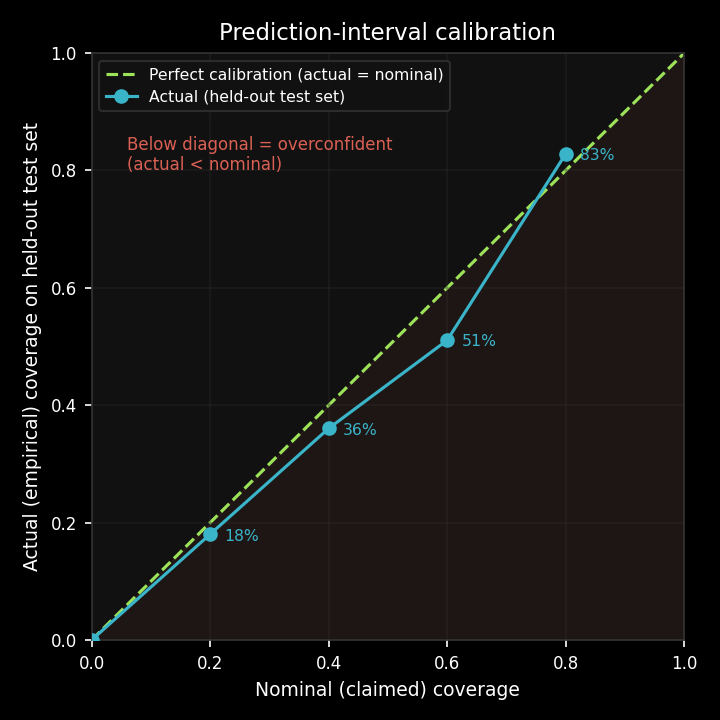
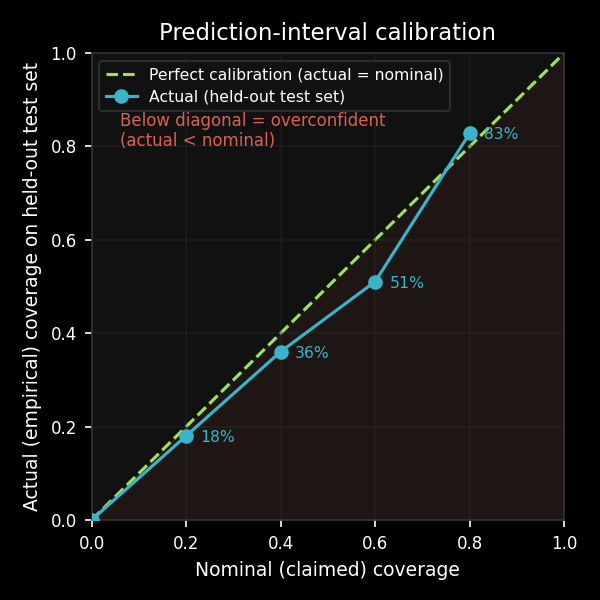
Shrink calibration chart to 600x600; trim and de-brand README
- Calibration chart down to 4.0x4.0in @150dpi (600x600px, exact size
  requested); dropped the in-plot floor-effect annotation that
  overlapped the trend line -- same explanation already lives in
  README's Model Calibration prose.
- Shortened 'How to Read the Daily Chart': combined the gradient/table
  bullets, cut the inline confidence-vs-prediction-interval explainer
  to a glossary link, added 3 outbound links instead of restating
  everything inline.
- Reworked 'What This Repo Does' with more real technical depth (tiling
  rationale, multi-frame averaging rationale, real dawn/dusk) now that
  the plain-language intro covers the beginner version.
- Scrubbed remaining prose mentions of the camera/data provider's brand
  name from README (only the new intro was covered last time); left
  literal env var names and the surfline_predictors.csv filename as-is
  since those are real required identifiers, not prose.
- Added GBT/GLM/MAE/prediction-interval/quantile-regression entries to
  HOW_IT_WORKS.md's existing repo-wide glossary, and linked new README
  terms/acronyms out to it and to its existing YOLOv8/CVAT reference
  links instead of duplicating a second glossary in README.

Claude-Session: https://claude.ai/code/session_01C2GCpQELsJRUSZjSZDcA3i

diff --git a/analysis/surf_count_model_calibration/plot_calibration.py b/analysis/surf_count_model_calibration/plot_calibration.py
@@ -100,7 +100,7 @@ def main():
         "xtick.color": TEXT, "ytick.color": TEXT,
         "grid.color": GRID,
     })
-    fig, ax = plt.subplots(figsize=(4.8, 4.8))
+    fig, ax = plt.subplots(figsize=(4.0, 4.0))
 
     ax.plot([0, 1], [0, 1], color=LIME, linestyle="--", linewidth=1.5,
              label="Perfect calibration (actual = nominal)", zorder=1)

diff --git a/README.md b/README.md
@@ -40,7 +40,7 @@ wants them, but that's the whole project in a nutshell.
 
 ## Technical Overview
 
-This project downloads short clips around daylight hours, extracts 3 cropped frames per clip (~1.5-3s apart), runs YOLOv8 inference on tiled images, and stores per-clip surfer counts averaged across those frames.
+This project downloads short video clips around daylight hours, extracts 3 cropped frames per clip (roughly 1.5-3 seconds apart), runs a [YOLOv8](docs/HOW_IT_WORKS.md#main-resources) object detector on tiled sections of each frame, and stores per-clip surfer counts averaged across those frames.
 
 <!-- DAILY_CHART_START -->
 ## A Recent Surfer Detection Count: Thursday, September 03, 2026, 7:56 AM
@@ -55,65 +55,61 @@ This project downloads short clips around daylight hours, extracts 3 cropped fra
 
 ### How to Read the Daily Chart
 
-- **Aqua line (Median)** — the model's single best-guess count for each
-  hour: the point where it thinks there's roughly a 50/50 chance the real
-  count lands above vs. below.
-- **Shaded gradient around the line** — a *prediction interval*, not
-  technically a confidence interval, though people often use the two
-  terms interchangeably. A confidence interval describes uncertainty
-  around an estimated *average* (e.g. "the average count at 2pm is
-  probably between X and Y"); a prediction interval describes uncertainty
-  around one *individual future observation* — what you'll actually see
-  on one specific day — which is the right concept here, since a chart
-  showing today's forecast is about a single real outcome, not a
-  long-run average. The gradient spans the model's 10th-to-90th
-  percentile prediction, i.e. a nominal 80% interval: if the model were
-  perfectly calibrated, the real count would land inside the shaded band
-  on about 80% of days. **It isn't perfectly calibrated** — checked
-  directly against held-out data (see "Model Calibration" under "Surfer
-  Count Prediction Model" below), real coverage runs a few points under
-  nominal for the narrower bands but *over* nominal (~83%) for the wide
-  80% band, an artifact of ~12% of real counts being exactly 0 — so
-  treat the band as a useful guide to plausible range, not a strict
-  bound. Darker
-  shading near the median means the model considers those counts more
-  likely; the color fades toward the 10%/90% edges, which are real but
-  less likely outcomes.
-- **Side table ("80% Range")** — the same 10th-to-90th-percentile range
-  as the shaded band, as plain numbers per hour, without the median, for
-  a quick reference.
-- **Circle/square/triangle/diamond markers** — the model's predicted
-  weather condition for that hour (clear/cloudy/rain/fog), plotted at
-  the median count.
-- **Green dashed line + right-hand axis** — predicted tide height (ft).
-- **Hatched band on the left** — night hours (before real dawn for that
-  day). The model can still output a number here, but there's little
-  real training data for night hours, so treat those points cautiously.
-- **A "no training data this hour" label**, when it appears — flags
-  hours outside the range the model actually has training examples for
-  (extrapolation, not a hard error).
-- **Caption at the bottom of the chart** — which real predictors are
-  currently driving the model's live fit that day, plus the surfer
-  detector's actual precision/recall from its real training log (not
-  estimated).
+- **Aqua line** — the model's single best-guess ("median") count for each
+  hour.
+- **Shaded gradient + side table ("80% Range")** — the model's
+  [prediction interval](docs/HOW_IT_WORKS.md#glossary): the range the
+  real count is expected to fall in on most days, shown both as a
+  gradient around the line (darker = more likely, fading out toward the
+  10%/90% edges) and as plain numbers in the table. **It isn't perfectly
+  calibrated** — see [Model Calibration](#model-calibration) below for
+  the real, measured accuracy of this range, not just the claimed one.
+- **Weather markers** (circle/square/triangle/diamond) — the model's
+  predicted weather condition for that hour, plotted at the median
+  count.
+- **Green dashed line (right-hand axis)** — predicted tide height, in
+  feet.
+- **Hatched band / "no training data" label** — flags hours with little
+  or no real training data behind them (night hours, or hours outside
+  the model's normal range) — treat those points as a rough
+  extrapolation, not a confident prediction.
+- **Caption** — the real predictors driving that day's forecast, plus
+  the detector's actual [precision and recall](docs/HOW_IT_WORKS.md#glossary)
+  from its real training log (not estimated).
+
+See [HOW_IT_WORKS.md](docs/HOW_IT_WORKS.md) for a deeper walkthrough of
+the detection pipeline and a glossary of every term used on this page,
+and [PROJECT_HISTORY.md](docs/PROJECT_HISTORY.md) for the full history
+of how the forecast model was built, tested, and tuned.
 
 ## What This Repo Does
 
-1. Pulls Surfline clips into dated folders.
-2. Extracts 3 ROI frames from each clip (a primary frame + 2 "side" frames a
-   few seconds apart).
-3. Checks the primary frame's image quality (brightness/blur) and skips
-   detection on frames too dark or too foggy/blurred to reliably count.
-4. Runs tiled YOLOv8 inference on all 3 frames and deduplicates boxes across
-   tile boundaries.
-5. Averages the 3 per-frame counts and appends the result (plus the raw
-   per-frame data) to `data/predictions/predictions.csv`.
+1. Downloads a short video clip from the camera for each roughly
+   9-minute window during daylight hours (real dawn to dusk for that
+   date, not fixed clock times), into a dated folder.
+2. Extracts 3 cropped [regions of interest](docs/HOW_IT_WORKS.md#glossary)
+   from each clip — a primary frame plus 2 "side" frames a few seconds
+   apart — so one count isn't at the mercy of a single unlucky frame
+   (someone briefly hidden behind a wave, a bird flying through, etc.).
+3. Checks the primary frame's brightness and blur before running
+   detection; frames too dark or too blurred (fog, dusk, a wet lens) are
+   skipped entirely rather than counted wrong. See
+   [HOW_IT_WORKS.md](docs/HOW_IT_WORKS.md) for the exact thresholds.
+4. Splits each frame into 4 overlapping horizontal tiles — small,
+   distant surfers are easier for the detector to find within a tile
+   than scattered across one wide frame — runs
+   [YOLOv8](docs/HOW_IT_WORKS.md#main-resources) on each tile, then
+   merges detections that land on a tile boundary back into one count
+   per frame.
+5. Averages the 3 per-frame counts into one per-clip count, and appends
+   the result — plus the 3 raw per-frame counts, for later analysis —
+   to `data/predictions/predictions.csv`.
 
-Started project on a cloud VM, but then realized training and inference could be run locally for free for now. See
-[`HOW_IT_WORKS.md`](docs/HOW_IT_WORKS.md) for a full walkthrough of the
-detection pipeline and a glossary of terms, [`PROJECT_HISTORY.md`](docs/PROJECT_HISTORY.md)
-for how it was built and tuned over time, and [`PROJECT_FILES.md`](docs/PROJECT_FILES.md)
-for a map of what every file in this repo is for.
+See [HOW_IT_WORKS.md](docs/HOW_IT_WORKS.md) for a full walkthrough of the
+detection pipeline and a glossary of every term used in this repo,
+[PROJECT_HISTORY.md](docs/PROJECT_HISTORY.md) for how it was built and
+tuned over time, and [PROJECT_FILES.md](docs/PROJECT_FILES.md) for a map
+of what every file in this repo is for.
 
 ## Detector Training Metrics
 
@@ -219,13 +215,16 @@ GBT permutation-importance breakdown). A closer look at the weekend effect:
 
 - `code/local_pipeline.sh`
   - The entry point. Downloads clips, extracts crops, checks local clip
-    storage, runs detection, pulls Surfline predictors, records a success
-    timestamp.
+    storage, runs detection, pulls the surf-forecast predictors below,
+    records a success timestamp.
 - `code/get_clips.py`
-  - Downloads clips between real dawn and dusk (civil twilight) — Surfline's
-    own live light forecast for today, astral (corrected camera coordinates)
-    for backfill days.
-  - Uses the nearest Surfline clip windows and can backfill up to the previous 5 days.
+  - Downloads clips between real dawn and dusk — "civil twilight," the
+    point the sky is light enough to see by, not full sunrise/sunset —
+    using the camera provider's own live light forecast for today, or a
+    backup calculation (with corrected camera coordinates) for backfill
+    days.
+  - Uses the provider's own native clip windows and can backfill up to
+    the previous 5 days.
 - `code/get_cropped_frame.py`
   - Reads downloaded clips and saves 3 cropped JPG frames each (primary +
     2 side frames), for multi-frame count averaging.
@@ -233,23 +232,24 @@ GBT permutation-importance breakdown). A closer look at the weekend effect:
   - Checks the primary frame's brightness/blur before running detection,
     skipping all 3 frames if it's too dark or too foggy to reliably count
     (see [`HOW_IT_WORKS.md`](docs/HOW_IT_WORKS.md)).
-  - Runs YOLO on 4 horizontal overlapping tiles per frame, deduplicates
-    boxes, filters out known static false positives, averages the 3
-    per-frame counts, and writes the result plus raw per-frame data.
+  - Runs [YOLO](docs/HOW_IT_WORKS.md#main-resources) on 4 horizontal
+    overlapping tiles per frame, deduplicates boxes, filters out known
+    static false positives, averages the 3 per-frame counts, and writes
+    the result plus raw per-frame data.
 - `code/backfill_multiframe_counts.py`
   - Manual, one-off script that backfills `frame_count_*` for existing
     `predictions.csv` rows whose raw clip is still on disk — never touches
     the original `surfer_count`/`confidence_avg`.
 - `code/get_surf_predictors.py`
   - Pulls weather, rating, tide, swell, wind, wave-energy, and consistency
-    data for Jack's from Surfline's public forecast API and appends to
-    `data/predictor_vars/surfline_predictors.csv`, matched to
+    data for Jack's from the surf-forecast provider's public API and
+    appends to `data/predictor_vars/surfline_predictors.csv`, matched to
     `predictions.csv` rows by filename. Forward-looking only (today + tomorrow).
 - `code/backfill_historical_predictors.py`
   - Manual, one-off script (not run by `local_pipeline.sh`) that backfills
-    the same predictor fields for past dates, using Surfline's historical
-    API. See the script's docstring for usage and safety notes before
-    running it.
+    the same predictor fields for past dates, using the provider's
+    historical API. See the script's docstring for usage and safety notes
+    before running it.
 - `code/manage_clips.py`
   - Emails a warning if local clip storage exceeds `CLIPS_DIR_LIMIT_GB`.
 - `code/send_email.py`

diff --git a/docs/HOW_IT_WORKS.md b/docs/HOW_IT_WORKS.md
@@ -210,6 +210,15 @@ investigation, metrics, and known error rates are in `PROJECT_HISTORY.md`.
   that popularized it).
 - **Epoch** — one full pass through the entire training dataset during
   training. This model trained for 60 epochs.
+- **GBT (Gradient-Boosted Trees)** — the model type used for the
+  surfer-count forecast (a separate model from the YOLOv8 detector above,
+  see `PROJECT_HISTORY.md`'s "Surfer Count Prediction Model" section).
+  Builds many small decision trees one after another, each one correcting
+  the errors of the trees before it.
+- **GLM (Generalized Linear Model)** — a family of statistical models
+  (e.g. Poisson, negative-binomial) tried as an alternative to GBT for
+  the surfer-count forecast; GBT ended up more accurate, see
+  `PROJECT_HISTORY.md`.
 - **Ground truth** — the "correct answer" — in this project, the
   hand-drawn CVAT boxes (for the training/test data) or a human's manual
   count (for the later review batches), used to measure how well the
@@ -230,6 +239,11 @@ investigation, metrics, and known error rates are in `PROJECT_HISTORY.md`.
   have few strong edges and a low variance. Used here as a general
   "unreliable image" signal, since fog, lens condensation, and smooth
   low-texture water all suppress it similarly.
+- **MAE (Mean Absolute Error)** — the average, across every prediction, of
+  how far off (in either direction) that prediction was from the real
+  value, ignoring sign — e.g. an MAE of 6 surfers means predictions are,
+  on average, 6 surfers away from the actual count. Used to judge the
+  surfer-count forecast model, not the detector (which uses mAP below).
 - **mAP (mean Average Precision)** — a standard single-number summary of
   object-detection quality, combining precision and recall across
   different confidence thresholds. Shows up in this model's training
@@ -239,6 +253,17 @@ investigation, metrics, and known error rates are in `PROJECT_HISTORY.md`.
 - **NMS (Non-Maximum Suppression)** — the de-duplication step: among a
   group of overlapping boxes (above the IoU threshold), keep only the one
   with the highest confidence and discard the rest.
+- **Prediction interval** (vs. **confidence interval**) — both describe a
+  range of uncertainty, but around different things. A confidence
+  interval is about an *average* (e.g. "the average count at 2pm is
+  probably between X and Y"); a prediction interval is about *one
+  individual future observation* (e.g. "today's count at 2pm will
+  probably be between X and Y"). The surfer-count forecast's shaded band
+  in the README is a prediction interval — the right concept for a
+  one-day forecast, not a long-run average. Built here from **quantile
+  regression**: instead of one GBT model predicting the average count, a
+  separate GBT is fit for each percentile (e.g. the 10th and 90th), and
+  the gap between them forms the interval.
 - **Precision** — of everything the model *flagged* as a surfer, what
   fraction actually were surfers. Low precision = lots of false positives.
 - **Recall** — of everything that *actually was* a surfer, what fraction

diff --git a/docs/PROJECT_HISTORY.md b/docs/PROJECT_HISTORY.md
@@ -1879,3 +1879,39 @@ script descriptions, filenames) is untouched. Added as a new "What This
 Project Does, In Plain Terms" section before the existing technical
 paragraph, which is now labeled "Technical Overview" so both audiences
 have a clear entry point.
+
+### Shrunk calibration chart; trimmed README prose; scrubbed remaining brand mentions; wired up glossary/reference links (2026-09-07)
+
+Follow-up round of README polish per Joel's feedback:
+
+- `analysis/surf_count_model_calibration/plot_calibration.py`'s figure
+  shrunk twice (8x8in → 4.8x4.8in → 4.0x4.0in at 150dpi = 600x600px,
+  Joel's exact requested size); the in-plot annotation explaining the
+  80% interval's floor effect was removed (it overlapped the trend
+  line) since the same explanation already lives in prose in README's
+  "Model Calibration" section.
+- "How to Read the Daily Chart" shortened significantly — combined the
+  gradient/side-table bullets (they show the same range two ways),
+  cut the inline confidence-vs-prediction-interval explainer down to a
+  link, and added 3 outbound links (`HOW_IT_WORKS.md#glossary`,
+  `HOW_IT_WORKS.md#main-resources`, `#model-calibration`) instead of
+  spelling everything out inline.
+- "What This Repo Does" rewritten with more real technical depth (tile
+  count and why tiling helps, why 3 frames not 1, real dawn/dusk vs.
+  fixed clock times) since the new plain-language intro up top already
+  covers the beginner-level version — this section no longer needed to
+  duplicate that.
+- Remaining prose mentions of the camera/data provider's brand name
+  scrubbed from README (the earlier pass only covered the new intro
+  paragraph) — reworded to "the camera provider," "the surf-forecast
+  provider," etc. Left the literal env var names
+  (`SURFLINE_CAMERA_ID`/`SURFLINE_ACCESS_TOKEN`/`SURFLINE_HISTORICAL_TOKEN`)
+  and the `surfline_predictors.csv` filename untouched — renaming actual
+  required config keys/filenames was out of scope for a wording change
+  and would break `.env.example`/existing setups.
+- Added new glossary entries to `HOW_IT_WORKS.md` (GBT, GLM, MAE,
+  prediction interval vs. confidence interval + quantile regression) —
+  that file already had a repo-wide glossary and a "Main resources"
+  section with real YOLOv8/CVAT links, so new README terms/acronyms
+  link out there instead of duplicating a second glossary in README
+  itself.
